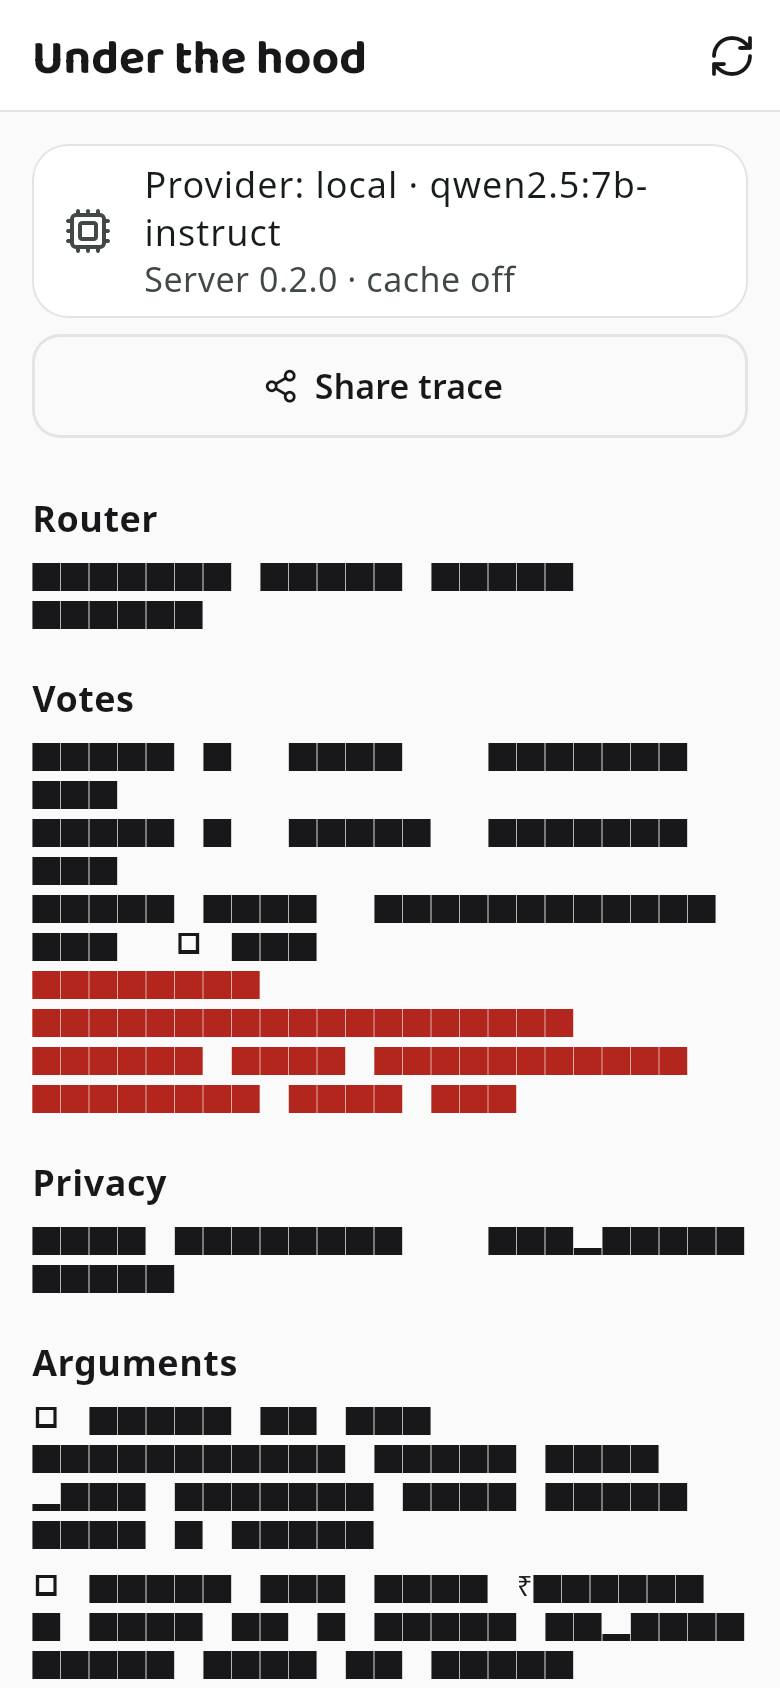
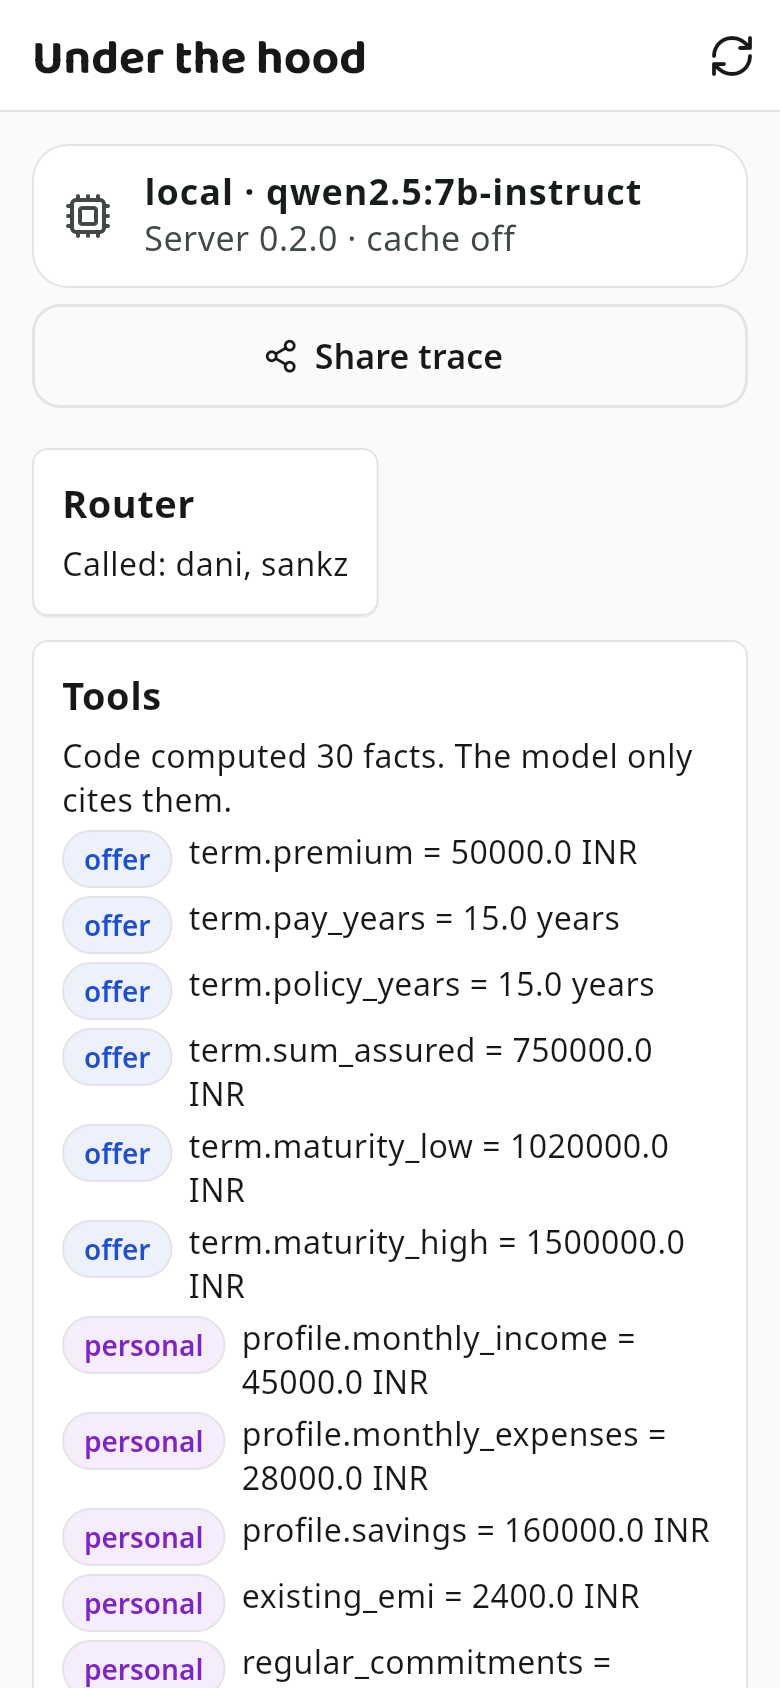
feat: a voice per council member, readable Under the hood, verdict polish
Each speaker gets a different installed voice when two or more exist, with the
pitch setup as the fallback. Under the hood is one card per step with the dropped
argument in plain words. The verdict fades in and a question lights up while read.

diff --git a/app/lib/screens/under_hood.dart b/app/lib/screens/under_hood.dart
@@ -71,7 +71,12 @@ class _UnderHoodScreenState extends State<UnderHoodScreen> {
             builder: (_, s) => Card(
               child: ListTile(
                 leading: const Icon(LucideIcons.cpu),
-                title: Text(s.hasData ? 'Provider: ${s.data!.provider} · ${s.data!.model}' : 'Provider: …'),
+                title: Text(
+                  s.hasData
+                      ? '${s.data!.provider == 'meta' ? 'Meta' : s.data!.provider} · ${s.data!.model}'
+                      : 'Provider: …',
+                  style: const TextStyle(fontSize: 18, fontWeight: FontWeight.w700),
+                ),
                 subtitle: Text(
                   s.hasError
                       ? (s.error is ApiException ? (s.error as ApiException).friendly : 'unreachable')
@@ -139,54 +144,91 @@ class _Details extends StatelessWidget {
     final args = objs(b['arguments']);
     final blocked = objs(b['spoken_lines']).where((l) => l['allowed'] == 0 || l['allowed'] == false).toList();
     final positions = objs(b['positions']);
-    final mono = const TextStyle(fontFamily: 'monospace', fontSize: 14);
+    final dropped = args.where((a) => a['kept'] == 0 || a['kept'] == false).toList();
+    final kept = args.length - dropped.length;
+    final tools = strs(_step('compute')['facts']);
+    const body = TextStyle(fontSize: 16, height: 1.35);
+    const red = TextStyle(fontSize: 16, height: 1.35, color: Color(0xFFB3261E), fontWeight: FontWeight.w600);
     return Column(
       crossAxisAlignment: CrossAxisAlignment.start,
       children: [
-        const SectionTitle('Router'),
-        Text('Called: ${strs(router['agents']).join(', ')}   flags: ${strs(router['flags']).join(', ')}', style: mono),
-        const SectionTitle('Votes'),
-        for (final p in positions)
-          Text('round ${p['round']}  ${str(p['agent']).padRight(6)} ${p['stance']} ${p['strength']}', style: mono),
-        Text(
-          'score ${consensus['score']}  disagreement ${consensus['disagreement']}  → ${consensus['verdict']}',
-          style: mono,
-        ),
-        for (final o in objs(consensus['overrides']))
-          Text('override ${o['rule']}: ${o['detail'] ?? ''}', style: mono.copyWith(color: const Color(0xFFB3261E))),
-        const SectionTitle('Privacy'),
-        Text('mode ${privacy['mode']}   earphones ${privacy['earphones']}', style: mono),
-        for (final l in blocked)
-          Text('blocked ${l['speaker']}: ${l['blocked_reason']}', style: mono.copyWith(color: const Color(0xFFB3261E))),
-        const SectionTitle('Arguments'),
-        for (final a in args)
-          Padding(
-            padding: const EdgeInsets.only(bottom: 6),
-            child: Text(
-              '${a['kept'] == 1 || a['kept'] == true ? '✔' : '✘'} ${a['agent']}: ${a['text']}'
-              '${a['drop_reason'] != null ? '\n   dropped: ${a['drop_reason']}' : ''}',
-              style: mono,
+        _StepCard('Router', [
+          Text('Called: ${strs(router['agents']).join(', ')}', style: body),
+          if (strs(router['flags']).isNotEmpty) Text('Flags: ${strs(router['flags']).join(', ')}', style: body),
+        ]),
+        _StepCard('Tools', [
+          Text('Code computed ${tools.length} facts. The model only cites them.', style: body),
+          for (final f in facts.take(40))
+            Padding(
+              padding: const EdgeInsets.only(top: 4),
+              child: Row(
+                crossAxisAlignment: CrossAxisAlignment.start,
+                children: [
+                  Pill(str(f['kind']), color: str(f['kind']) == 'personal' ? K.vick : K.sankz),
+                  const SizedBox(width: 8),
+                  Expanded(
+                    child: Text('${f['id']} = ${f['value'] ?? f['value_text'] ?? '?'} ${f['unit'] ?? ''}', style: body),
+                  ),
+                ],
+              ),
             ),
-          ),
-        const SectionTitle('Facts (from code)'),
-        for (final f in facts)
-          Padding(
-            padding: const EdgeInsets.only(bottom: 4),
-            child: Row(
-              crossAxisAlignment: CrossAxisAlignment.start,
-              children: [
-                Pill(str(f['kind']), color: str(f['kind']) == 'personal' ? K.vick : K.sankz),
-                const SizedBox(width: 8),
-                Expanded(
-                  child: Text('${f['id']} = ${f['value'] ?? f['value_text'] ?? '?'} ${f['unit'] ?? ''}', style: mono),
-                ),
-              ],
+        ]),
+        _StepCard('Dropped arguments', [
+          Text('$kept kept, ${dropped.length} dropped.', style: body),
+          if (dropped.isEmpty) const Text('Nothing was dropped in this answer.', style: body),
+          for (final a in dropped) ...[
+            const SizedBox(height: 6),
+            Text('${K.agentName(str(a['agent']))} said: “${a['text']}”', style: body),
+            Text('Dropped because: ${a['drop_reason']}', style: red),
+          ],
+        ]),
+        _StepCard('Vote', [
+          for (final p in positions)
+            Text(
+              '${K.agentName(str(p['agent']))}: ${p['stance']}, strength ${p['strength']} (round ${p['round']})',
+              style: body,
             ),
+          Text(
+            'Score ${consensus['score']}, disagreement ${consensus['disagreement']}: ${consensus['verdict']}',
+            style: body.copyWith(fontWeight: FontWeight.w700),
           ),
-        const SectionTitle('Steps'),
-        for (final t in objs(b['trace']))
-          Text('${str(t['step']).padRight(14)} ${t['ms']} ms  ${t['outcome']}', style: mono),
+          for (final o in objs(consensus['overrides']))
+            Text('Safety rule ${o['rule']}: ${o['detail'] ?? ''}', style: red),
+        ]),
+        _StepCard('Privacy', [
+          Text('Mode: ${privacy['mode']}. Earphones: ${privacy['earphones']}.', style: body),
+          if (blocked.isEmpty) const Text('No line was blocked.', style: body),
+          for (final l in blocked)
+            Text('Blocked ${K.agentName(str(l['speaker']))}: ${l['blocked_reason']}', style: red),
+        ]),
+        _StepCard('Timings', [
+          for (final t in objs(b['trace']))
+            if ((number(t['ms']) ?? 0) >= 1)
+              Text('${str(t['step'])}: ${((number(t['ms']) ?? 0) / 1000).toStringAsFixed(1)} s', style: body),
+        ]),
       ],
     );
   }
+}
+
+/// One step of the pipeline, readable at arm's length.
+class _StepCard extends StatelessWidget {
+  final String title;
+  final List<Widget> children;
+  const _StepCard(this.title, this.children);
+  @override
+  Widget build(BuildContext context) => Padding(
+    padding: const EdgeInsets.only(top: 12),
+    child: KCard(
+      padding: const EdgeInsets.all(14),
+      child: Column(
+        crossAxisAlignment: CrossAxisAlignment.start,
+        children: [
+          Text(title, style: const TextStyle(fontSize: 19, fontWeight: FontWeight.w800)),
+          const SizedBox(height: 6),
+          ...children,
+        ],
+      ),
+    ),
+  );
 }

diff --git a/app/lib/core/speech.dart b/app/lib/core/speech.dart
@@ -1,5 +1,6 @@
 import 'dart:io';
 
+import 'package:flutter/foundation.dart';
 import 'package:flutter_tts/flutter_tts.dart';
 import 'package:path_provider/path_provider.dart';
 import 'package:record/record.dart';
@@ -17,6 +18,21 @@ const voices = <String, Voice>{
   'vick': Voice(0.75, 0.47),
 };
 
+/// A different installed voice per speaker for this locale: on-device voices first, sorted so the choice is stable.
+/// Empty when fewer than two exist; then the pitch and rate above tell the speakers apart.
+Map<String, Map<String, String>> assignVoices(List<Map<String, String>> installed, String locale) {
+  final want = locale.toLowerCase().replaceAll('_', '-');
+  final all = [
+    for (final v in installed)
+      if ((v['locale'] ?? '').toLowerCase().replaceAll('_', '-') == want) v,
+  ];
+  final local = all.where((v) => (v['name'] ?? '').contains('local')).toList();
+  final pool = (local.length >= 2 ? local : all)..sort((a, b) => (a['name'] ?? '').compareTo(b['name'] ?? ''));
+  if (pool.length < 2) return {};
+  final speakers = voices.keys.toList();
+  return {for (var i = 0; i < speakers.length; i++) speakers[i]: pool[i % pool.length]};
+}
+
 String ttsLocale(String lang) => switch (lang) {
   'ml' => 'ml-IN',
   'hi' => 'hi-IN',
@@ -33,6 +49,20 @@ class Speaker {
   FlutterTts get _tts => _ttsInstance ??= FlutterTts();
   bool _ready = false;
   double speed = 1.0;
+  final _assigned = <String, Map<String, Map<String, String>>>{};
+
+  Future<Map<String, Map<String, String>>> _voicesFor(String locale) async {
+    final known = _assigned[locale];
+    if (known != null) return known;
+    var found = <String, Map<String, String>>{};
+    try {
+      final list = await _tts.getVoices as List<dynamic>;
+      final installed = [for (final v in list) (v as Map).map((k, x) => MapEntry('$k', '$x'))];
+      found = assignVoices(installed, locale);
+      debugPrint('voices $locale: ${found.map((k, v) => MapEntry(k, v['name']))}');
+    } catch (_) {}
+    return _assigned[locale] = found;
+  }
 
   Future<void> _init() async {
     if (_ready) return;
@@ -48,8 +78,11 @@ class Speaker {
     try {
       await _init();
       final v = voices[speaker] ?? voices['alfii']!;
-      await _tts.setLanguage(ttsLocale(lang));
-      await _tts.setPitch(v.pitch);
+      final locale = ttsLocale(lang);
+      await _tts.setLanguage(locale);
+      final own = (await _voicesFor(locale))[speaker];
+      if (own != null) await _tts.setVoice({'name': own['name']!, 'locale': own['locale']!});
+      await _tts.setPitch(own == null ? v.pitch : 1.0);
       await _tts.setSpeechRate((v.rate * speed).clamp(0.2, 0.9));
       await _tts.speak(text);
     } catch (_) {}

diff --git a/app/lib/screens/verdict.dart b/app/lib/screens/verdict.dart
@@ -26,6 +26,7 @@ class VerdictScreen extends StatefulWidget {
 
 class _VerdictScreenState extends State<VerdictScreen> {
   final _speaker = Speaker();
+  String? _speaking; // the "Ask him this" question being read out
   final _followUp = TextEditingController();
 
   /// A follow-up continues this case: the brochure and earlier answers still count.
@@ -95,6 +96,24 @@ class _VerdictScreenState extends State<VerdictScreen> {
         ),
       ),
     );
+  }
+
+  /// The verdict arrives with a short fade and scale; none when the phone asks for reduced motion.
+  Widget _arrive(Widget child) => TweenAnimationBuilder<double>(
+    tween: Tween(begin: MediaQuery.of(context).disableAnimations ? 1 : 0, end: 1),
+    duration: const Duration(milliseconds: 300),
+    curve: Curves.easeOut,
+    builder: (_, t, c) => Opacity(
+      opacity: t,
+      child: Transform.scale(scale: 0.96 + 0.04 * t, child: c),
+    ),
+    child: child,
+  );
+
+  Future<void> _sayQuestion(String q, String lang) async {
+    setState(() => _speaking = q);
+    await _speaker.say(q, lang: lang);
+    if (mounted) setState(() => _speaking = null);
   }
 
   Widget _header(CaseResult r, VerdictStyle v, String lang) => KCard(
@@ -225,7 +244,7 @@ class _VerdictScreenState extends State<VerdictScreen> {
       body: ListView(
         padding: const EdgeInsets.all(14),
         children: [
-          _header(r, v, lang),
+          _arrive(_header(r, v, lang)),
           if (r.questions.isNotEmpty) ...[
             SectionTitle(stock ? 'Ask this' : 'Ask him this'),
             for (final q in r.questions)
@@ -233,6 +252,8 @@ class _VerdictScreenState extends State<VerdictScreen> {
                 padding: const EdgeInsets.only(bottom: 8),
                 child: KCard(
                   padding: const EdgeInsets.all(12),
+                  color: _speaking == q ? K.alfii.withValues(alpha: 0.12) : null,
+                  border: _speaking == q ? K.alfii : null,
                   child: Row(
                     children: [
                       Expanded(
@@ -241,7 +262,7 @@ class _VerdictScreenState extends State<VerdictScreen> {
                       IconButton(
                         tooltip: 'Say it',
                         icon: const Icon(LucideIcons.volume2, color: K.alfii),
-                        onPressed: () => _speaker.say(q, lang: lang),
+                        onPressed: () => _sayQuestion(q, lang),
                       ),
                       IconButton(
                         tooltip: 'Copy',

diff --git a/app/test/screens_test.dart b/app/test/screens_test.dart
@@ -3,6 +3,7 @@
 import 'package:flutter/material.dart';
 import 'package:flutter_test/flutter_test.dart';
 import 'package:kanakku/core/models.dart';
+import 'package:kanakku/core/speech.dart';
 import 'package:kanakku/screens/council.dart';
 import 'package:kanakku/screens/guardian.dart';
 import 'package:kanakku/screens/home.dart';
@@ -44,6 +45,27 @@ CaseProvider casesWith(FakeSettings s, List<String> names) {
 }
 
 void main() {
+  group('council voices', () {
+    Map<String, String> voice(String name, [String locale = 'en-IN']) => {'name': name, 'locale': locale};
+
+    test('each speaker gets a different on-device voice', () {
+      final got = assignVoices([
+        voice('en-in-x-b-local'),
+        voice('en-in-x-a-local'),
+        voice('en-in-x-c-local'),
+        voice('en-in-x-d-local'),
+        voice('en-in-x-a-network'),
+        voice('en-us-x-z-local', 'en-US'),
+      ], 'en-IN');
+      expect(got.values.map((v) => v['name']).toSet(), hasLength(4));
+      expect(got['alfii']!['name'], 'en-in-x-a-local');
+    });
+
+    test('with fewer than two voices the pitch setup stays', () {
+      expect(assignVoices([voice('en-in-x-a-local')], 'en-IN'), isEmpty);
+    });
+  });
+
   setUp(FakeSpeaker.said.clear);
 
   for (final scale in [1.0, 1.3]) {
@@ -145,7 +167,7 @@ void main() {
       testWidgets('under the hood', (tester) async {
         final s = FakeSettings(fakeServer());
         await pumpScreen(tester, const UnderHoodScreen(), textScale: scale, cases: casesWith(s, ['endowment_red']));
-        expect(find.textContaining('Provider: local'), findsOneWidget);
+        expect(find.textContaining('local ·'), findsOneWidget);
         expect(find.text('Router'), findsOneWidget);
         await expectLater(find.byType(MaterialApp), matchesGoldenFile(golden('under_hood', scale)));
       });

diff --git a/server/tests/test_verify_terms.py b/server/tests/test_verify_terms.py
@@ -69,3 +69,26 @@ def test_a_flat_rate_stays_flat():
 def test_a_rate_that_is_neither_is_not_assumed_flat():
     got = rate_term("9.5%", "A loan of 80,000 at 9.5% a year for 24 months.")
     assert not got.verified and got.reason == "not written as a flat rate"
+
+
+# ---------------------------------------------------------------- a photo: the model and Tesseract must agree
+def photo_term(value: str, ocr: str, *, vision: bool = True):
+    term = ExtractedTerm(
+        name="premium", value_text=value, evidence_quote=f"Annual premium: Rs. {value}", source="page_1"
+    )
+    page = EvidenceText(quote_id="q1", source="page_1", text=f"Annual premium: Rs. {value}", ocr_text=ocr)
+    return verify_term(term, [page], vision_read=vision)
+
+
+def test_a_photo_term_is_read_twice_only_when_both_agree():
+    got = photo_term("50,000", "Annual premium: Rs. 50,000")
+    assert got.verified and got.reading == "twice"
+
+
+def test_a_photo_term_is_refused_when_tesseract_disagrees():
+    got = photo_term("80,000", "Annual premium: Rs. 50,000")
+    assert not got.verified and got.reason == "photo reading did not confirm the number"
+
+
+def test_without_vision_a_photo_is_only_read_once():
+    assert photo_term("50,000", "Annual premium: Rs. 50,000", vision=False).reading == "once"
